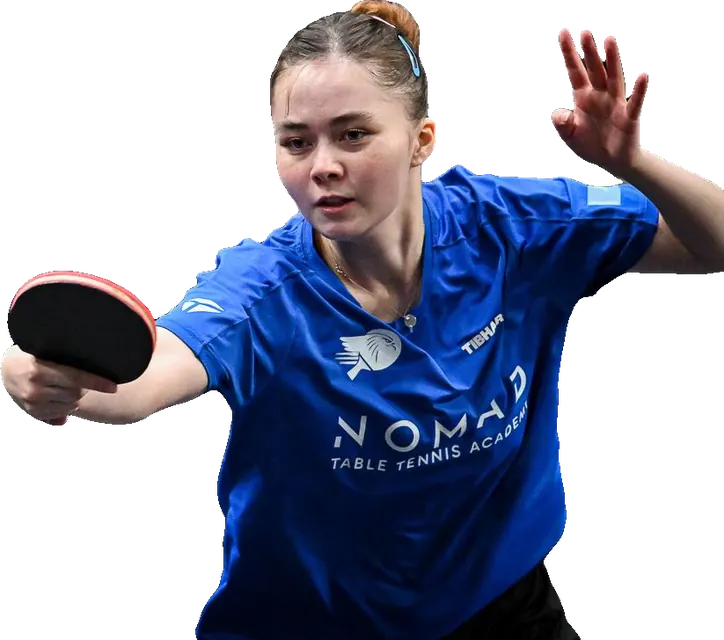
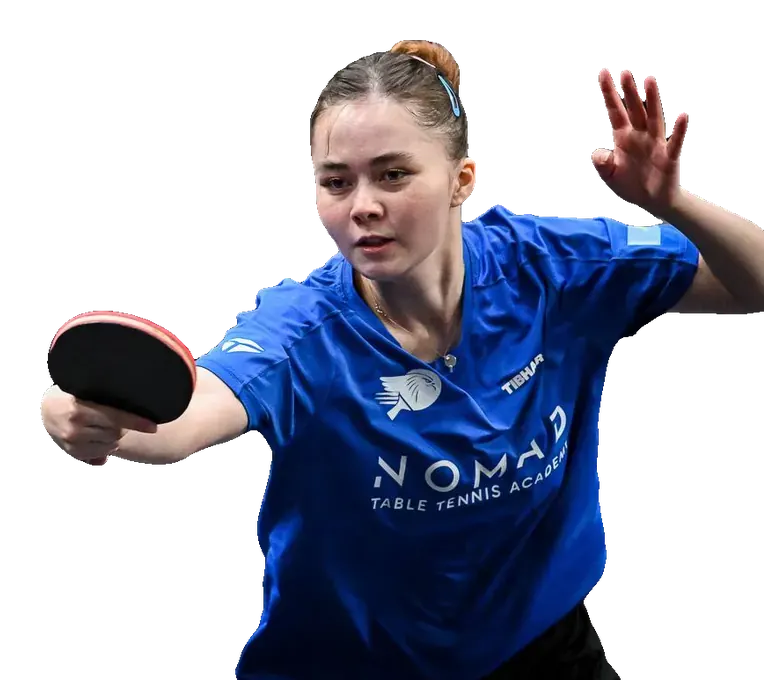
fix(home): у дальней девушки на постере рука без среза
Маска гасила обрез кадра, но срезала и размытие фигуры по краю картинки: кисть с ракеткой у самого края файла получала прямой срез. В файле прозрачные поля слева и сверху, размытию есть куда растечься.

diff --git a/src/features/home/hero-poster.tsx b/src/features/home/hero-poster.tsx
@@ -36,6 +36,10 @@ interface Figure {
    * поясу выше края экрана; правый край — у дальней девушки рука упирается
    * в край исходного снимка. Людей не дорисовываем (правила бренда,
    * `kttf-marketing/CLAUDE.md`), поэтому обрез уходит в темноту.
+   *
+   * Маска режет и размытие дальней фигуры по краю картинки: рука у самого
+   * края файла получала прямой срез. Поэтому у такой вырезки в файле
+   * прозрачные поля слева и сверху — размытию есть куда растечься.
    */
   readonly fade?: { readonly bottom?: boolean; readonly right?: boolean };
 }
@@ -69,12 +73,12 @@ const FIGURES: readonly Figure[] = [
   },
   {
     src: '/home/player-reach.webp',
-    width: 724,
-    height: 640,
+    width: 764,
+    height: 680,
     side: 'right',
     offset: '-14%',
-    size: 400,
-    lg: { inner: 324, size: 404, bottom: 86 },
+    size: 425,
+    lg: { inner: 299, size: 429, bottom: 86 },
     back: true,
     fade: { bottom: true, right: true },
   },

diff --git a/brand/README.md b/brand/README.md
@@ -18,6 +18,8 @@
 реальных игроков Казахстана из `kttf-marketing/sources/photos/cutouts`, те
 же, что на шапке YouTube-канала: обрезаны по непрозрачному краю, сжаты до
 880 точек по высоте (дальние — до 640) и сохранены в WebP с качеством 78.
+У `player-reach.webp` добавлены прозрачные поля 40 точек слева и сверху:
+фигура размыта и под маской, и без полей размытие срезалось по краю файла.
 Заменить игрока — заменить файл и поправить ширину и высоту в
 `src/features/home/hero-poster.tsx`.
 
